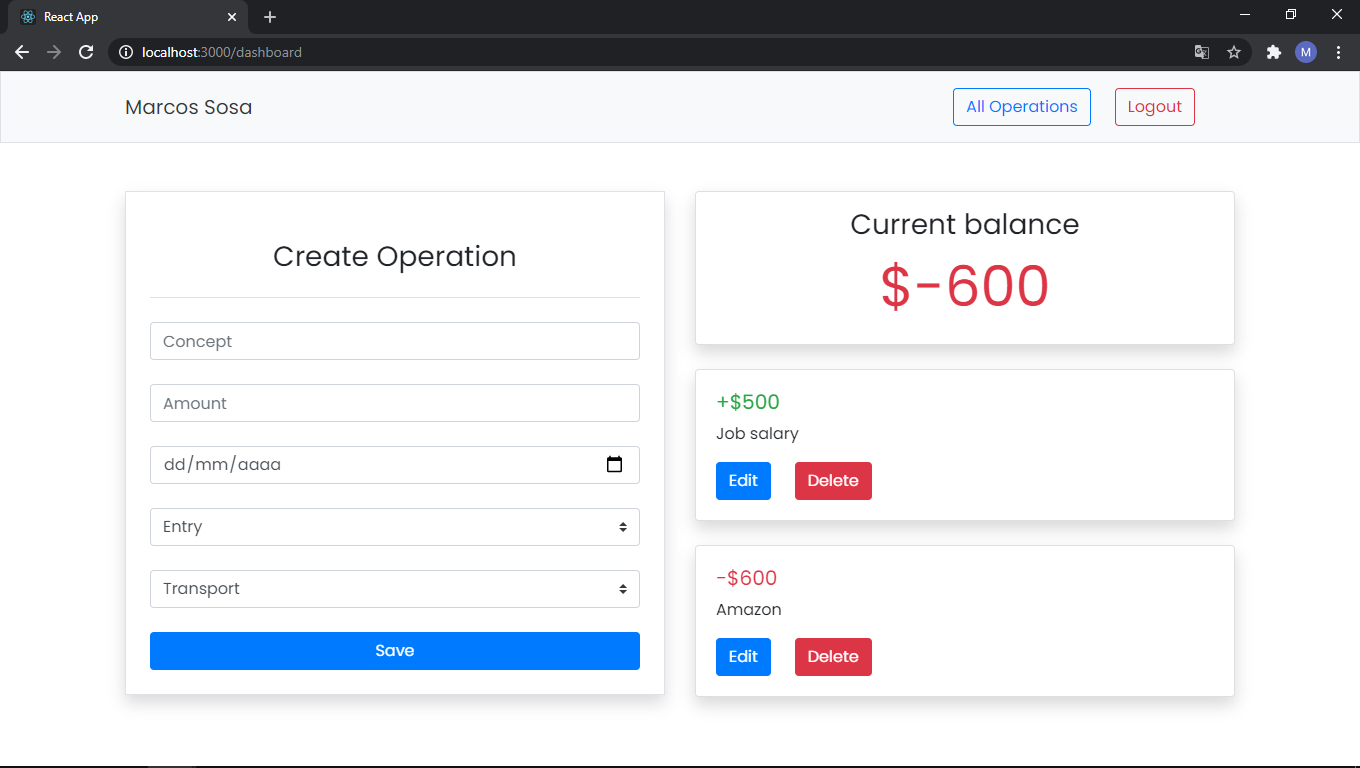
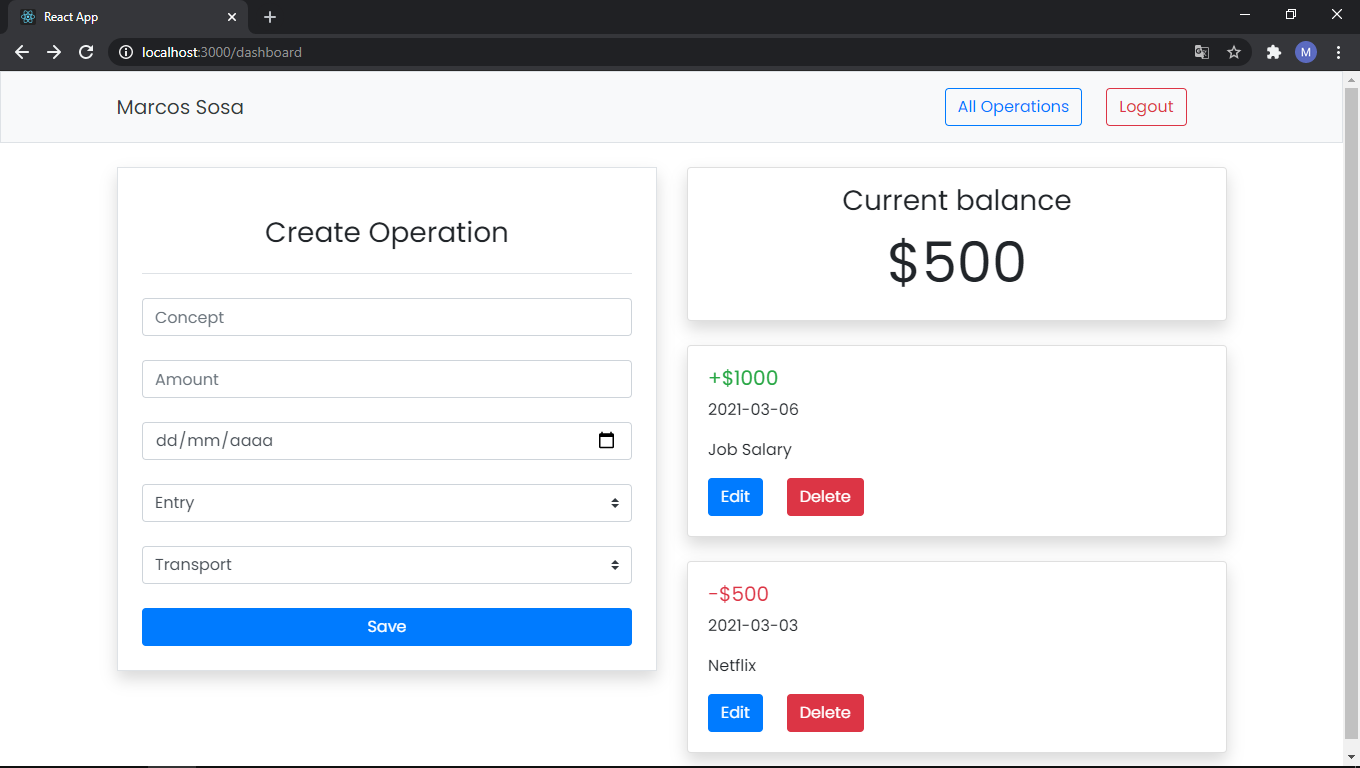
update README.md

diff --git a/src/components/OperationItem.js b/src/components/OperationItem.js
@@ -29,6 +29,7 @@ export const OperationItem = ({ id, amount, concept, date, typeID, categoryID, u
         ) : (
           <h5 className="text-success">+${amount}</h5>
         )}
+        <p className="card-text">{date.split('T')[0]}</p>
         <p className="card-text">{concept}</p>
         <Link to={"/edit"} className="btn btn-primary mr-4" onClick={handleEdit}>
           Edit

diff --git a/src/components/Navbar.js b/src/components/Navbar.js
@@ -13,7 +13,7 @@ export const Navbar = () => {
   };
 
   return (
-    <nav className="navbar navbar-primary bg-light border mb-5">
+    <nav className="navbar navbar-primary bg-light border mb-4">
       <div className="container">
         <Link to="/dashboard" className="navbar-brand text-dark">
           {user.firstname} {user.lastname}
